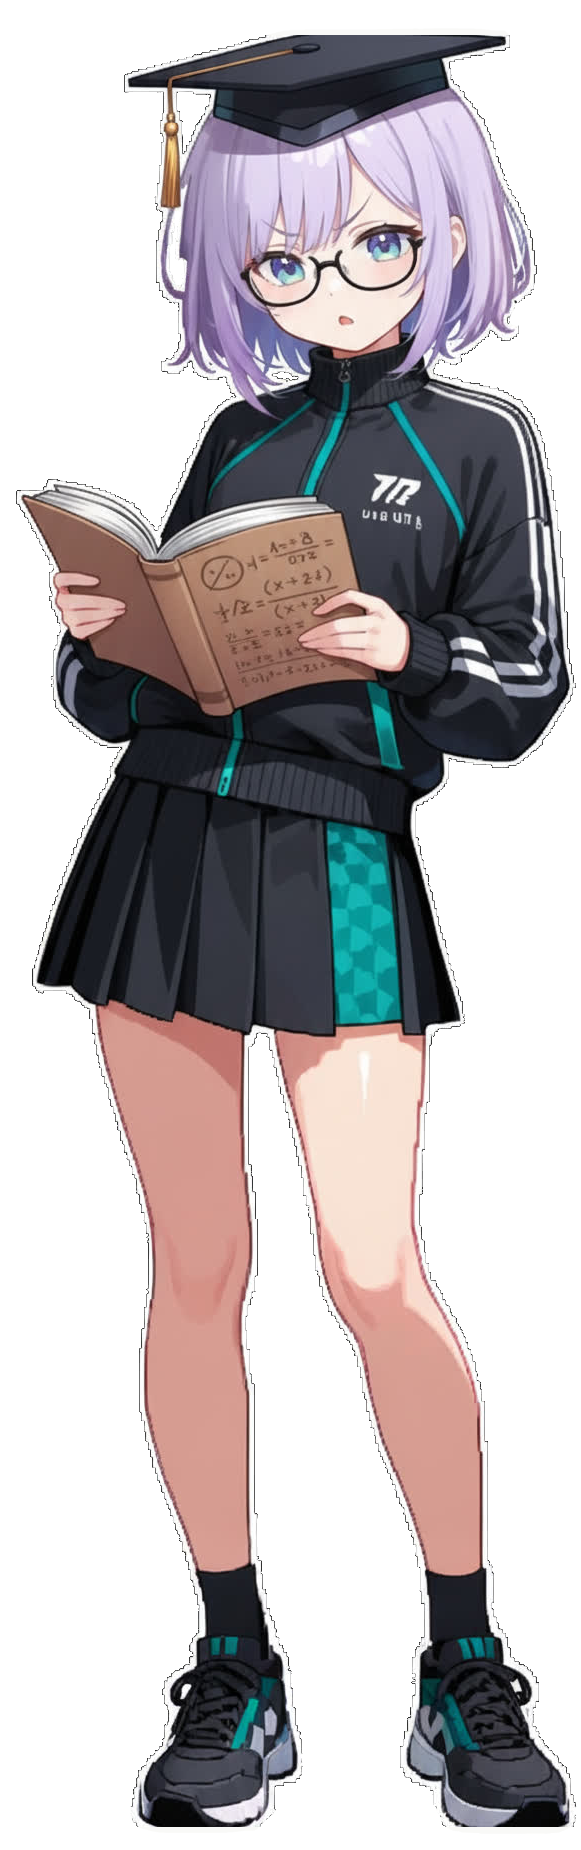
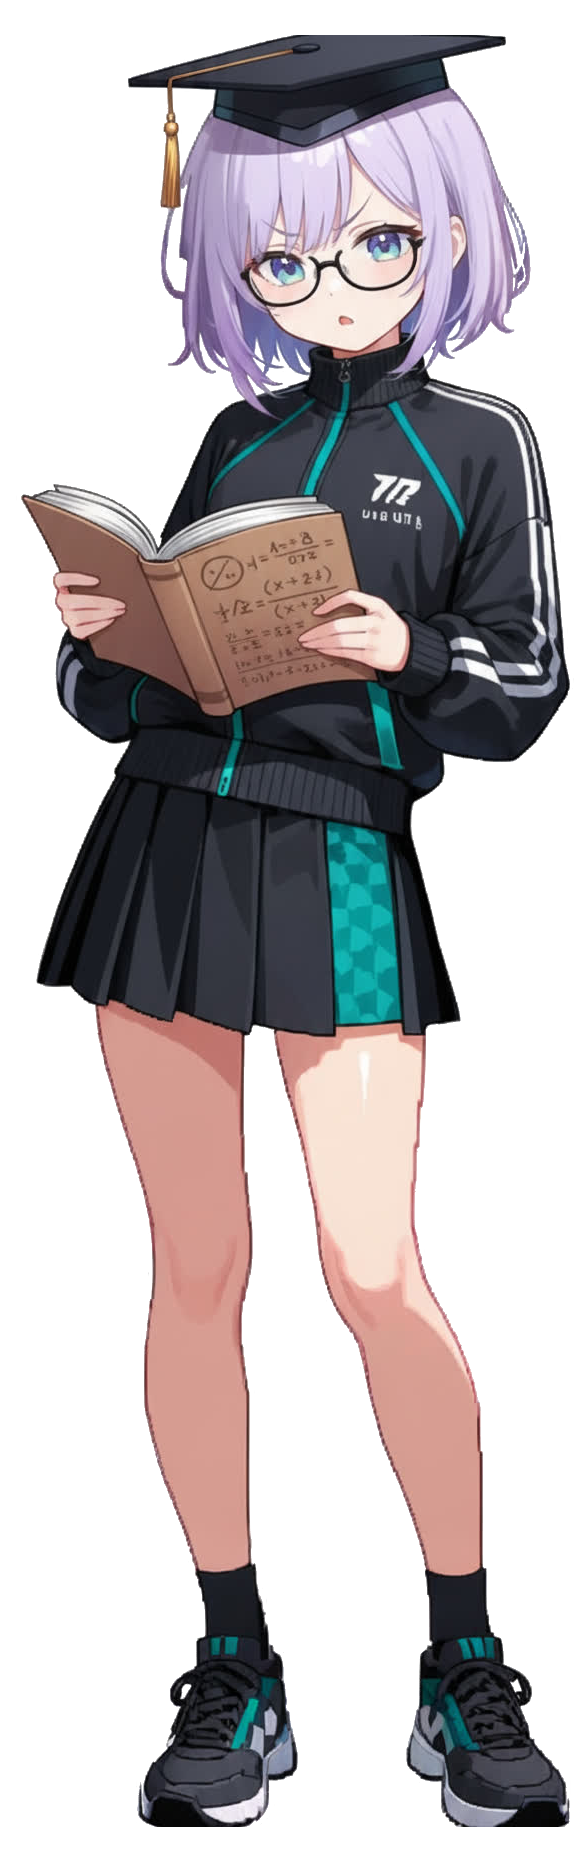
퀴즈 부분 이미지들 교체

diff --git a/chatbot_app/templates/quiz_history.html b/chatbot_app/templates/quiz_history.html
@@ -8,7 +8,7 @@
     <link rel="stylesheet" href="{% static 'style.css' %}">
     <style>
         body {
-            background-image: url('{% static "img/pixel_room_bg.png" %}'); /* Or a suitable background */
+            background-image: url('{% static "img/Sky_Scraper.png" %}'); /* Or a suitable background */
             background-size: cover;
             background-position: center;
             background-repeat: no-repeat;
